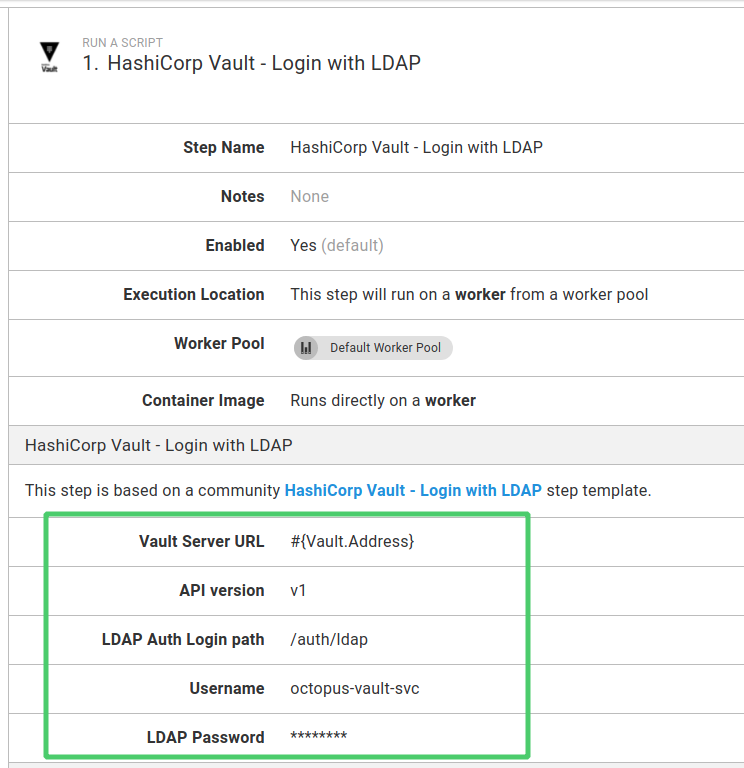
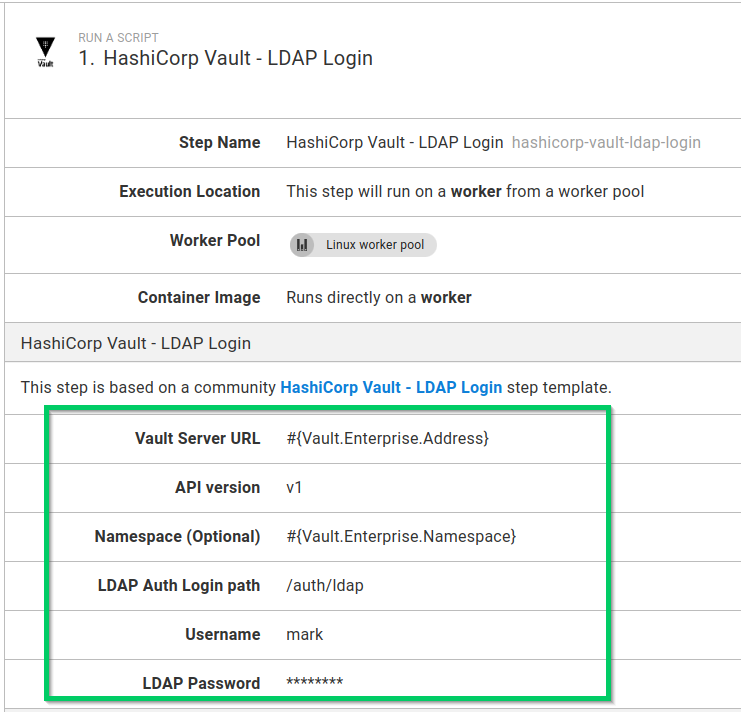
Update LDAP parameters and screenshots

diff --git a/blog/2021-05/using-hashicorp-vault-with-octopus-deploy/index.md b/blog/2021-05/using-hashicorp-vault-with-octopus-deploy/index.md
@@ -32,7 +32,7 @@ In addition, this post doesn't go into great detail about Vault server concepts 
 
 The step templates covered in this post perform both [Vault authentication](https://www.vaultproject.io/docs/concepts/auth) and secret retrieval for both versions 1 and 2 of the [Key-Value (kv)](https://www.vaultproject.io/docs/secrets/kv) Secrets Engine.
 
-All of the step templates make use of the Vault [HTTP API](https://www.vaultproject.io/api-docs) so there are no additional dependencies required to use them, except being able to connect to your Vault server. They've all been tested using Vault version **1.7.1** and can run on both Windows and Linux (with `Powershell Core` installed).
+All of the step templates make use of the Vault [HTTP API](https://www.vaultproject.io/api-docs) so there are no additional dependencies required to use them, except being able to connect to your Vault server. They've all been tested using Vault version **1.11.3** and can run on both Windows and Linux (with `Powershell Core` installed).
 
 ## Authentication {#authentication}
 
@@ -52,7 +52,7 @@ Upon authentication with Vault, a [token](https://www.vaultproject.io/docs/conce
 
 ### LDAP login step {#ldap-login}
 
-The [HashiCorp Vault - Login with LDAP](https://library.octopus.com/step-templates/de807003-3b05-4649-9af3-11a2c7722b3f/actiontemplate-hashicorp-vault-ldap-login) step template authenticates with a Vault Server using the [LDAP](https://www.vaultproject.io/docs/auth/ldap) authentication method. This allows Vault integration without having to duplicate username or password configuration.
+The [HashiCorp Vault - LDAP Login](https://library.octopus.com/step-templates/de807003-3b05-4649-9af3-11a2c7722b3f/actiontemplate-hashicorp-vault-ldap-login) step template authenticates with a Vault Server using the [LDAP](https://www.vaultproject.io/docs/auth/ldap) authentication method. This allows Vault integration without having to duplicate username or password configuration.
 
 You might choose to authenticate using LDAP if you already have an LDAP server available and use service accounts to control access to sensitive information.
 
@@ -68,6 +68,7 @@ The step template has the following parameters:
 
 - `Vault Server URL`: The URL of the Vault instance you are connecting to, including the port (The default is `8200`).
 - `API version`: Choose the API version to use from a drop-down list. Currently, there is only one option: `v1`.
+- `Namespace`: *Optional* The [namespace](https://www.vaultproject.io/docs/enterprise/namespaces) to use. Nested namespaces can be supplied, e.g., `ns1/ns2`. **Note:** Namespaces are only supported on [Vault Enterprise](https://www.hashicorp.com/products/vault).
 - `LDAP Auth Login path`: The path that the [LDAP method is mounted at](https://www.vaultproject.io/api-docs/auth/ldap). The default is `/auth/ldap`.
 - `Username`: The LDAP username.
 - `Password`: The LDAP password.
@@ -76,7 +77,7 @@ The step template has the following parameters:
 
 #### Using the LDAP login step {#ldap-login-use}
 
-The **LDAP login** step is added to deployment and runbook processes in the [same way as other steps](https://octopus.com/docs/projects/steps#adding-steps-to-your-deployment-processes).
+The **LDAP Login** step is added to deployment and runbook processes in the [same way as other steps](https://octopus.com/docs/projects/steps#adding-steps-to-your-deployment-processes).
 
 After you've added the step to your process, fill out the parameters in the step:
 
@@ -86,10 +87,10 @@ You can then execute the step in a runbook or deployment process. On successful 
 
 ![Vault LDAP login step task log](vault-ldap-login-step-output-variable.png)
 
-In subsequent steps, the output variable `#{Octopus.Action[HashiCorp Vault - Login with LDAP].Output.LDAPAuthToken}` can be used to authenticate and retrieve secrets.
+In subsequent steps, the output variable `#{Octopus.Action[HashiCorp Vault - LDAP Login].Output.LDAPAuthToken}` can be used to authenticate and retrieve secrets.
 
 :::hint
-**Tip:** Remember to replace `HashiCorp Vault - Login with LDAP` with the name of your step for any output variable names.
+**Tip:** Remember to replace `HashiCorp Vault - LDAP Login` with the name of your step for any output variable names.
 :::
 
 ### AppRole login step {#approle-login}
